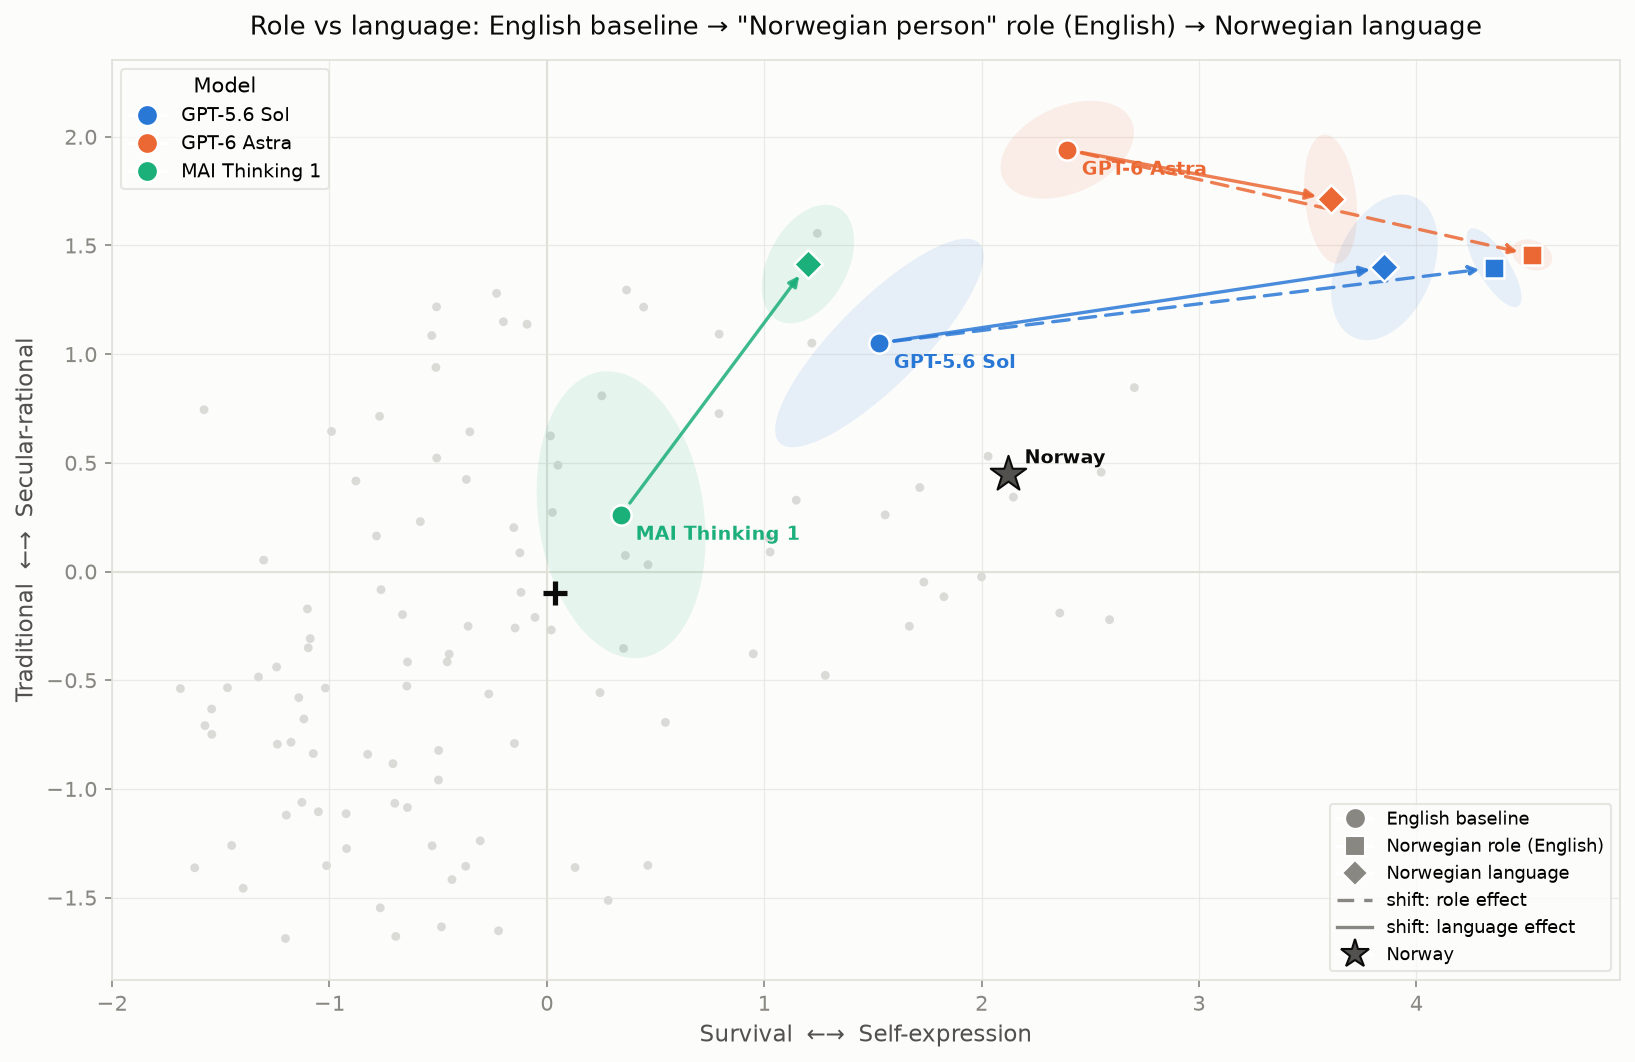
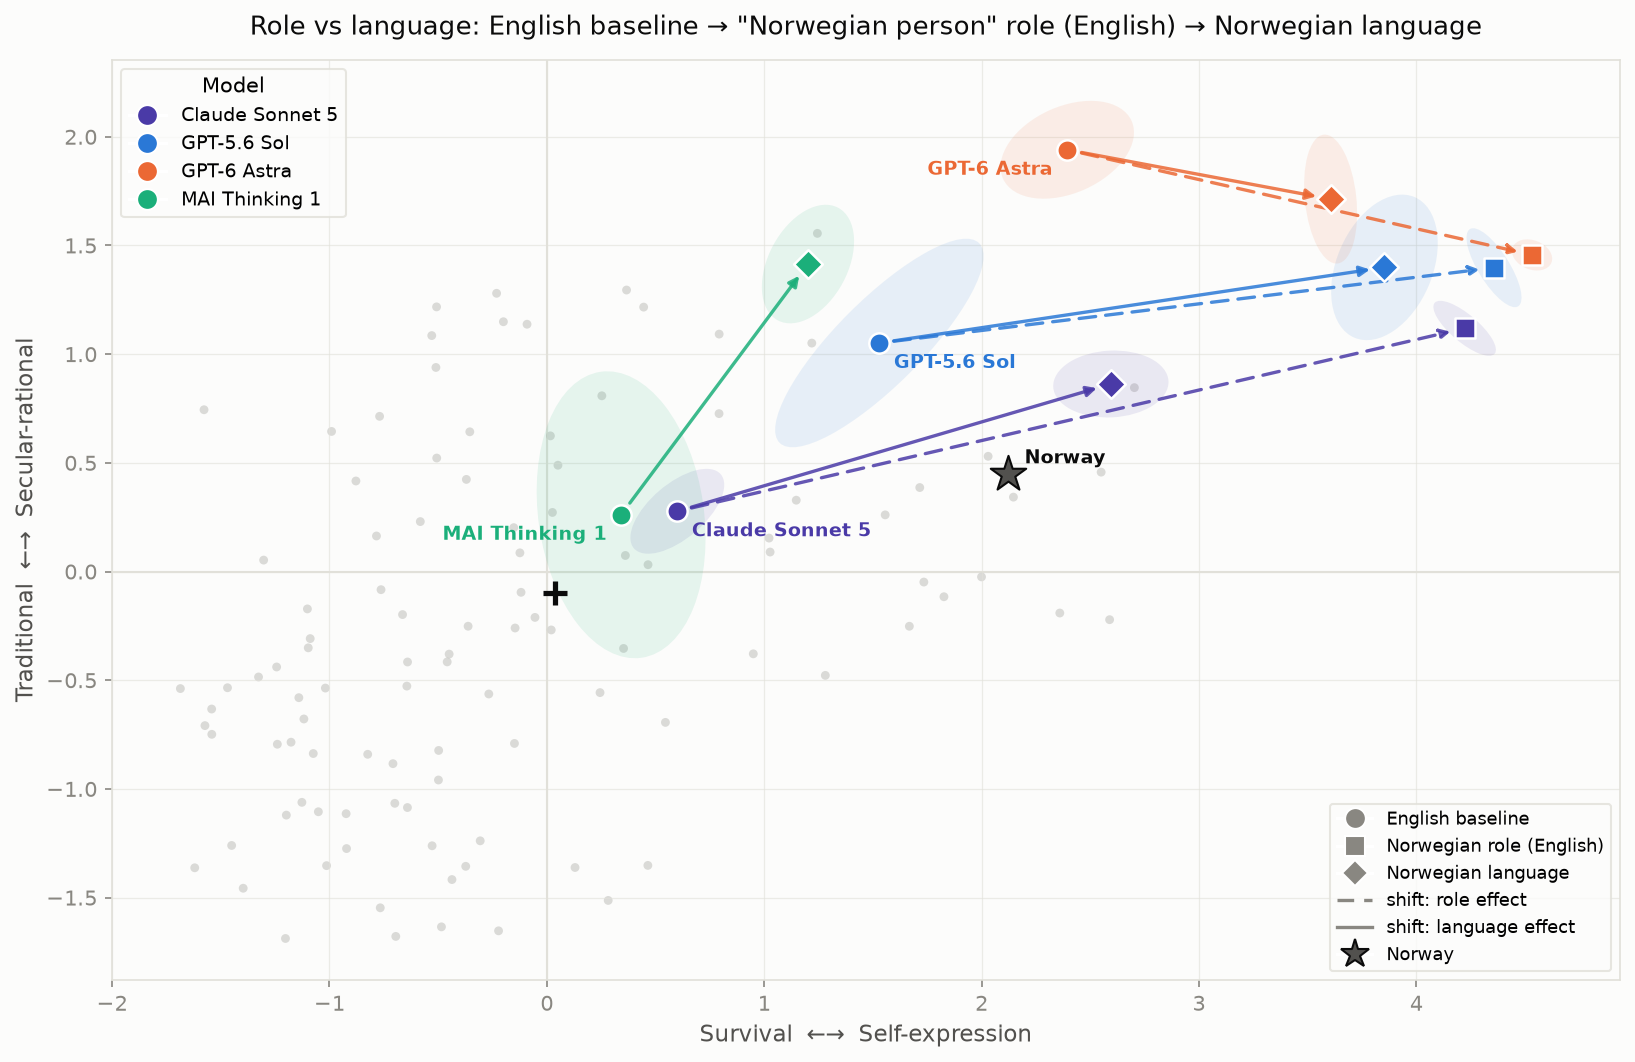
Roles and contributions

diff --git a/src/plot_map.py b/src/plot_map.py
@@ -1,0 +1,159 @@
+#!/usr/bin/env python3
+"""
+Render a PNG of the Inglehart-Welzel map: country centroids as a recessive
+backdrop, plus selected LLMs. Built for the EN-vs-NO comparison — OpenAI and
+Anthropic 2026 models in English, with the Norwegian-language runs drawn as
+diamonds and joined to their English twins by a connector.
+
+Generate the inputs first:
+  uv run python src/compare.py            --llm-only --out out/coords_en.js
+  uv run python src/compare.py --language NO --llm-only --out out/coords_no.js
+then:
+  uv run python src/plot_map.py --out out/map_no.png
+"""
+import argparse
+import json
+import re
+from pathlib import Path
+
+import numpy as np
+import matplotlib
+matplotlib.use('Agg')
+import matplotlib.pyplot as plt
+import pandas as pd
+from matplotlib.lines import Line2D
+from matplotlib.patches import Ellipse
+
+ROOT = Path(__file__).parent.parent
+CENTROIDS_FILE = ROOT / 'out' / 'country_centroids.csv'
+
+# Palette (validated data-viz reference instance): vendor = hue, language = shape.
+VENDOR_COLOR = {'OpenAI': '#2a78d6', 'Anthropic': '#eb6834'}
+SURFACE   = '#fcfcfb'
+INK       = '#0b0b0b'
+SECONDARY = '#52514e'
+MUTED     = '#898781'
+GRID      = '#e1e0d9'
+COUNTRY   = '#c3c2b7'
+
+# A few well-known countries labelled to orient the reader; Norway is highlighted
+# separately since it is the reason for the Norwegian-language runs.
+ANCHORS = ['Sweden', 'United States', 'Japan', 'Russia', 'Germany', 'Great Britain']
+HIGHLIGHT = 'Norway'
+
+
+def load_coords(path: Path) -> list[dict]:
+    txt = path.read_text().strip()
+    return json.loads(re.sub(r'^window\.COORDS = |;\s*$', '', txt))
+
+
+def main() -> None:
+    p = argparse.ArgumentParser(description=__doc__, formatter_class=argparse.RawDescriptionHelpFormatter)
+    p.add_argument('--en', default=str(ROOT / 'out' / 'coords_en.js'), help='EN llm-only coords JS')
+    p.add_argument('--no', default=str(ROOT / 'out' / 'coords_no.js'), help='NO llm-only coords JS')
+    p.add_argument('--out', default=str(ROOT / 'out' / 'map_no.png'))
+    p.add_argument('--year', default='2026', help='Only EN models released in this year')
+    args = p.parse_args()
+
+    countries = pd.read_csv(CENTROIDS_FILE).rename(columns={'surv-self': 'x', 'trad-sec': 'y'})
+    en = [r for r in load_coords(Path(args.en))
+          if r['region'] in VENDOR_COLOR and str(r.get('release', '')).startswith(args.year)]
+    no = [r for r in load_coords(Path(args.no)) if r['region'] in VENDOR_COLOR]
+    en_by_label = {r['country']: r for r in en}
+    twin_labels = {r['country'].replace(' (NO)', '') for r in no}  # the 4 EN models with NO runs
+
+    fig, ax = plt.subplots(figsize=(13, 10), dpi=150)
+    fig.patch.set_facecolor(SURFACE)
+    ax.set_facecolor(SURFACE)
+
+    # Quadrant reference lines + hairline grid, kept recessive.
+    ax.axhline(0, color=GRID, lw=1, zorder=0)
+    ax.axvline(0, color=GRID, lw=1, zorder=0)
+    ax.grid(True, color=GRID, lw=0.6, alpha=0.6, zorder=0)
+
+    # Country backdrop.
+    ax.scatter(countries['x'], countries['y'], s=20, c=COUNTRY, alpha=0.7,
+               edgecolors='none', zorder=1)
+    for _, row in countries.iterrows():
+        if row['country'] in ANCHORS:
+            ax.annotate(row['country'], (row['x'], row['y']), fontsize=7.5, color=MUTED,
+                        xytext=(4, 3), textcoords='offset points', zorder=2)
+
+    # Norway highlighted.
+    nor = countries[countries['country'] == HIGHLIGHT]
+    if not nor.empty:
+        nx, ny = float(nor['x'].iloc[0]), float(nor['y'].iloc[0])
+        ax.scatter([nx], [ny], marker='*', s=340, c=SECONDARY, edgecolors=INK,
+                   linewidths=1.0, zorder=6)
+        ax.annotate(HIGHLIGHT, (nx, ny), fontsize=10, fontweight='bold', color=INK,
+                    xytext=(8, 6), textcoords='offset points', zorder=7)
+
+    # Attenuated confidence ellipses (of the mean) for just the 4 models that have
+    # both an EN and a NO run — EN twins and their NO counterparts.
+    def draw_ellipse(rec):
+        if rec.get('ea') is None:
+            return
+        ax.add_patch(Ellipse((rec['x'], rec['y']), width=2 * rec['ea'], height=2 * rec['eb'],
+                             angle=np.degrees(rec['etheta']), facecolor=VENDOR_COLOR[rec['region']],
+                             edgecolor='none', alpha=0.1, zorder=2))
+    for lab in twin_labels:
+        if lab in en_by_label:
+            draw_ellipse(en_by_label[lab])
+    for r in no:
+        draw_ellipse(r)
+
+    # Connectors EN -> NO (drawn under the markers).
+    for r in no:
+        twin = en_by_label.get(r['country'].replace(' (NO)', ''))
+        if twin:
+            ax.annotate('', xy=(r['x'], r['y']), xytext=(twin['x'], twin['y']),
+                        arrowprops=dict(arrowstyle='-|>', color=MUTED, lw=1.2,
+                                        alpha=0.8, shrinkA=6, shrinkB=6), zorder=3)
+
+    # EN models: circles.
+    for r in en:
+        ax.scatter([r['x']], [r['y']], marker='o', s=70, c=VENDOR_COLOR[r['region']],
+                   edgecolors='white', linewidths=1.0, zorder=5)
+        ax.annotate(r['country'], (r['x'], r['y']), fontsize=7, color=SECONDARY,
+                    xytext=(5, 3), textcoords='offset points', zorder=8)
+
+    # NO models: diamonds.
+    for r in no:
+        ax.scatter([r['x']], [r['y']], marker='D', s=85, c=VENDOR_COLOR[r['region']],
+                   edgecolors='white', linewidths=1.0, zorder=6)
+        ax.annotate(r['country'].replace(' (NO)', ' (NO)'), (r['x'], r['y']), fontsize=7.5,
+                    fontweight='bold', color=INK, xytext=(6, -10),
+                    textcoords='offset points', zorder=9)
+
+    ax.set_xlabel('Survival  ←→  Self-expression', fontsize=11, color=SECONDARY)
+    ax.set_ylabel('Traditional  ←→  Secular-rational', fontsize=11, color=SECONDARY)
+    ax.set_title('LLM values on the Inglehart–Welzel map: OpenAI & Anthropic 2026, '
+                 'English vs Norwegian prompts', fontsize=13, color=INK, pad=14)
+    ax.tick_params(colors=MUTED)
+    for spine in ax.spines.values():
+        spine.set_color(GRID)
+
+    legend_handles = [
+        Line2D([0], [0], marker='o', color='w', markerfacecolor=VENDOR_COLOR['OpenAI'],
+               markeredgecolor='white', markersize=10, label='OpenAI'),
+        Line2D([0], [0], marker='o', color='w', markerfacecolor=VENDOR_COLOR['Anthropic'],
+               markeredgecolor='white', markersize=10, label='Anthropic'),
+        Line2D([0], [0], marker='o', color='w', markerfacecolor=MUTED, markersize=10,
+               label='English prompt'),
+        Line2D([0], [0], marker='D', color='w', markerfacecolor=MUTED, markersize=9,
+               label='Norwegian prompt'),
+        Line2D([0], [0], marker='*', color='w', markerfacecolor=SECONDARY,
+               markeredgecolor=INK, markersize=15, label='Norway'),
+        Line2D([0], [0], marker='o', color='w', markerfacecolor=COUNTRY, markersize=8,
+               label='Country (WVS/EVS)'),
+    ]
+    ax.legend(handles=legend_handles, loc='lower right', fontsize=9, frameon=True,
+              facecolor=SURFACE, edgecolor=GRID, labelcolor=SECONDARY)
+
+    fig.tight_layout()
+    fig.savefig(args.out, dpi=150, facecolor=SURFACE, bbox_inches='tight')
+    print(f'Wrote {args.out}  ({len(en)} EN + {len(no)} NO models, {len(countries)} countries)')
+
+
+if __name__ == '__main__':
+    main()

diff --git a/src/plot_contrib_compare.py b/src/plot_contrib_compare.py
@@ -1,0 +1,101 @@
+#!/usr/bin/env python3
+"""
+Per-question contribution to the map shift, LANGUAGE effect vs ROLE effect, on the models
+that have both an EN generic run, a NO generic run, and an EN Norwegian-role run.
+
+For each model and question i, relative to the EN generic baseline:
+  language effect: z from NO generic;  role effect: z from EN "Norwegian person" role.
+Contribution to Δx = 1.81·w[i,0]·Δz, to Δy = 1.61·w[i,1]·Δz (sum to the model's Δx/Δy).
+Bars = mean across models; dots = each model. Writes out/no_contrib_compare.png.
+
+Usage: uv run --with matplotlib python src/plot_contrib_compare.py
+"""
+import json
+import sys
+from pathlib import Path
+
+import numpy as np
+import pandas as pd
+import matplotlib
+matplotlib.use('Agg')
+import matplotlib.pyplot as plt
+from matplotlib.lines import Line2D
+
+sys.path.insert(0, str(Path(__file__).parent))
+import compare as C  # noqa: E402
+
+SHORT = {'F063': 'God important', 'Y003': 'Child autonomy', 'F120': 'Abortion OK',
+         'G006': 'National pride', 'E018': 'Respect authority', 'Y002': 'Country aims',
+         'A008': 'Happiness', 'F118': 'Homosexuality OK', 'E025': 'Signed petition',
+         'A165': 'Trust people'}
+LANG_COL, ROLE_COL = '#2a78d6', '#eb6834'   # language = blue, role = orange
+INK, MUTED, GRID, SURFACE = '#0b0b0b', '#898781', '#e1e0d9', '#fcfcfb'
+
+
+def main():
+    V = C.VARIABLES
+    exp = json.load(open(C.EXPERIMENTS_FILE))
+    w = np.loadtxt(C.WEIGHTS_FILE); s = np.loadtxt(C.SDS_FILE)
+    df = C.load_responses(latest_only=True)
+    ids = df['experiment_id'].astype(str)
+    lang = ids.map({k: v.get('language', 'EN') for k, v in exp.items()}).fillna('EN')
+    pers = ids.map({k: v.get('persona', v.get('language', 'EN').lower()) for k, v in exp.items()}).fillna('en')
+    label = ids.map({k: v.get('label', '') for k, v in exp.items()})
+
+    def means_by_base(mask, strip):
+        d = df[mask].copy(); d['base'] = label[mask].str.replace(strip, '', regex=False)
+        return d.groupby('base')[V].mean()
+
+    en = means_by_base((lang == 'EN') & (pers == 'en'), '')
+    no = means_by_base((lang == 'NO') & (pers == 'no'), ' (NO)')
+    role = means_by_base((lang == 'EN') & (pers == 'en_no_role'), ' (NO role)')
+    bases = [b for b in en.index if b in no.index and b in role.index]
+
+    def contrib(tgt):   # {axis: DataFrame [model x question]}
+        cx, cy = {}, {}
+        for b in bases:
+            dz = (tgt.loc[b].values - en.loc[b].values) / s
+            cx[b] = 1.81 * w[:, 0] * dz
+            cy[b] = 1.61 * w[:, 1] * dz
+        return pd.DataFrame(cx, index=V).T, pd.DataFrame(cy, index=V).T
+    Lx, Ly = contrib(no)
+    Rx, Ry = contrib(role)
+
+    order = Lx.mean().sort_values().index.tolist()
+    y = np.arange(len(order)); off = 0.2
+
+    fig, axes = plt.subplots(1, 2, figsize=(13.5, 7), dpi=150, sharey=True)
+    fig.patch.set_facecolor(SURFACE)
+    rng = np.random.default_rng(0)
+    for ax, (L, R, name) in zip(axes, [(Lx, Rx, 'Survival → Self-expression  (Δx)'),
+                                       (Ly, Ry, 'Traditional → Secular  (Δy)')]):
+        ax.set_facecolor(SURFACE)
+        ax.axvline(0, color=MUTED, lw=1, zorder=1)
+        ax.barh(y + off, [L[q].mean() for q in order], color=LANG_COL, height=0.36, alpha=0.35, zorder=2)
+        ax.barh(y - off, [R[q].mean() for q in order], color=ROLE_COL, height=0.36, alpha=0.35, zorder=2)
+        for b in bases:
+            ax.scatter([L.loc[b, q] for q in order], y + off + (rng.random(len(order)) - .5) * .22,
+                       s=24, c=LANG_COL, edgecolors='white', linewidths=.5, zorder=4)
+            ax.scatter([R.loc[b, q] for q in order], y - off + (rng.random(len(order)) - .5) * .22,
+                       s=24, c=ROLE_COL, edgecolors='white', linewidths=.5, zorder=4)
+        ax.set_title(name, fontsize=11.5, color=INK)
+        ax.grid(axis='x', color=GRID, lw=0.6, alpha=0.6, zorder=0)
+        ax.tick_params(colors=MUTED)
+        for sp in ax.spines.values():
+            sp.set_color(GRID)
+        ax.set_xlabel('contribution to shift (map units)', fontsize=10, color='#52514e')
+    axes[0].set_yticks(y); axes[0].set_yticklabels([SHORT[q] for q in order], fontsize=10, color=INK)
+
+    handles = [Line2D([0], [0], marker='s', color='w', markerfacecolor=LANG_COL, markersize=11, label='language effect (EN→NO)'),
+               Line2D([0], [0], marker='s', color='w', markerfacecolor=ROLE_COL, markersize=11, label='role effect (EN→NO role)')]
+    axes[1].legend(handles=handles, loc='lower right', fontsize=9, frameon=True, facecolor=SURFACE, edgecolor=GRID)
+    fig.suptitle(f'Per-question contribution: language vs role effect  (mean of {len(bases)} models: {", ".join(bases)})',
+                 fontsize=12.5, color=INK, y=0.98)
+    fig.tight_layout(rect=(0, 0, 1, 0.96))
+    out = C.ROOT / 'out' / 'no_contrib_compare.png'
+    fig.savefig(out, dpi=150, facecolor=SURFACE, bbox_inches='tight')
+    print(f'Wrote {out}  ({len(bases)} models: {bases})')
+
+
+if __name__ == '__main__':
+    main()

diff --git a/src/plot_contrib.py b/src/plot_contrib.py
@@ -1,0 +1,106 @@
+#!/usr/bin/env python3
+"""
+Which questions drive the English→Norwegian shift? For every model with both an EN
+(generic) and a NO (generic) run, decompose its map shift into per-question
+contributions: for question i, contribution to Δx = 1.81·w[i,0]·(z_i^NO − z_i^EN) and to
+Δy = 1.61·w[i,1]·(z_i^NO − z_i^EN), where z = (mean score − population mean)/sd. These
+sum exactly to the model's Δx / Δy. Bars = mean across models; dots = each model (by
+vendor), so you see both the driver and how consistent it is. Writes out/no_contrib.png.
+
+Usage: uv run --with matplotlib python src/plot_contrib.py
+"""
+import json
+import sys
+from pathlib import Path
+
+import numpy as np
+import pandas as pd
+import matplotlib
+matplotlib.use('Agg')
+import matplotlib.pyplot as plt
+from matplotlib.lines import Line2D
+
+sys.path.insert(0, str(Path(__file__).parent))
+import compare as C  # noqa: E402
+
+SHORT = {  # variable -> short label for the y-axis
+    'F063': 'God important', 'Y003': 'Child autonomy', 'F120': 'Abortion OK',
+    'G006': 'National pride', 'E018': 'Respect authority', 'Y002': 'Country aims',
+    'A008': 'Happiness', 'F118': 'Homosexuality OK', 'E025': 'Signed petition',
+    'A165': 'Trust people',
+}
+VENDOR_COLOR = {'OpenAI': '#fb923c', 'Anthropic': '#c2410c', 'Microsoft': '#2563eb'}
+INK, MUTED, GRID, SURFACE, BAR = '#0b0b0b', '#898781', '#e1e0d9', '#fcfcfb', '#c9c8c2'
+
+
+def main():
+    V = C.VARIABLES
+    exp = json.load(open(C.EXPERIMENTS_FILE))
+    w = np.loadtxt(C.WEIGHTS_FILE); s = np.loadtxt(C.SDS_FILE)
+    df = C.load_responses(latest_only=True)
+    ids = df['experiment_id'].astype(str)
+    lang = ids.map({k: v.get('language', 'EN') for k, v in exp.items()}).fillna('EN')
+    pers = ids.map({k: v.get('persona', v.get('language', 'EN').lower()) for k, v in exp.items()}).fillna('en')
+    label = ids.map({k: v.get('label', '') for k, v in exp.items()})
+    vendor_of = {v.get('label', ''): v.get('vendor', 'Other') for v in exp.values()}
+
+    def means_by_base(mask, strip):
+        d = df[mask].copy(); d['base'] = label[mask].str.replace(strip, '', regex=False)
+        return d.groupby('base')[V].mean()
+
+    en = means_by_base((lang == 'EN') & (pers == 'en'), '')
+    no = means_by_base((lang == 'NO') & (pers == 'no'), ' (NO)')
+    bases = [b for b in no.index if b in en.index]
+
+    # contributions: {axis: DataFrame [base x question]}
+    cx, cy = {}, {}
+    for b in bases:
+        dz = (no.loc[b].values - en.loc[b].values) / s
+        cx[b] = 1.81 * w[:, 0] * dz
+        cy[b] = 1.61 * w[:, 1] * dz
+    CX = pd.DataFrame(cx, index=V).T   # rows=models, cols=questions
+    CY = pd.DataFrame(cy, index=V).T
+
+    order = CX.mean().sort_values().index.tolist()   # questions by mean Δx contribution
+    ypos = np.arange(len(order))
+
+    fig, axes = plt.subplots(1, 2, figsize=(13.5, 7), dpi=150, sharey=True)
+    fig.patch.set_facecolor(SURFACE)
+    rng = np.random.default_rng(0)
+    for ax, (CC, name) in zip(axes, [(CX, 'Survival → Self-expression  (Δx)'),
+                                     (CY, 'Traditional → Secular  (Δy)')]):
+        ax.set_facecolor(SURFACE)
+        ax.axvline(0, color=MUTED, lw=1, zorder=1)
+        ax.barh(ypos, [CC[q].mean() for q in order], color=BAR, height=0.66, zorder=2,
+                edgecolor='none')
+        for b in bases:
+            col = VENDOR_COLOR.get(vendor_of.get(b, 'Other'), '#6c757d')
+            jit = (rng.random(len(order)) - 0.5) * 0.34
+            ax.scatter([CC.loc[b, q] for q in order], ypos + jit, s=26, c=col,
+                       edgecolors='white', linewidths=0.5, alpha=0.9, zorder=4)
+        ax.set_title(name, fontsize=11.5, color=INK)
+        ax.grid(axis='x', color=GRID, lw=0.6, alpha=0.6, zorder=0)
+        ax.tick_params(colors=MUTED)
+        for sp in ax.spines.values():
+            sp.set_color(GRID)
+    axes[0].set_yticks(ypos)
+    axes[0].set_yticklabels([SHORT[q] for q in order], fontsize=10, color=INK)
+    axes[0].set_xlabel('contribution to shift (map units)', fontsize=10, color='#52514e')
+    axes[1].set_xlabel('contribution to shift (map units)', fontsize=10, color='#52514e')
+
+    handles = ([Line2D([0], [0], marker='o', color='w', markerfacecolor=c, markersize=9, label=v)
+                for v, c in VENDOR_COLOR.items()]
+               + [Line2D([0], [0], marker='s', color='w', markerfacecolor=BAR, markersize=11,
+                         label=f'mean of {len(bases)} models')])
+    axes[1].legend(handles=handles, loc='lower right', fontsize=9, frameon=True,
+                   facecolor=SURFACE, edgecolor=GRID)
+
+    fig.suptitle('What drives the English→Norwegian shift, per question', fontsize=13.5, color=INK, y=0.98)
+    fig.tight_layout(rect=(0, 0, 1, 0.96))
+    out = C.ROOT / 'out' / 'no_contrib.png'
+    fig.savefig(out, dpi=150, facecolor=SURFACE, bbox_inches='tight')
+    print(f'Wrote {out}  ({len(bases)} models)')
+
+
+if __name__ == '__main__':
+    main()

diff --git a/src/plot_role.py b/src/plot_role.py
@@ -21,8 +21,9 @@ from matplotlib.patches import Ellipse
 sys.path.insert(0, str(Path(__file__).parent))
 import compare as C  # noqa: E402
 
-BASES = ['GPT-5.6 Sol', 'GPT-6 Astra', 'MAI Thinking 1']
-MODEL_COLOR = {'GPT-5.6 Sol': '#2a78d6', 'GPT-6 Astra': '#eb6834', 'MAI Thinking 1': '#1baf7a'}
+BASES = ['Claude Sonnet 5', 'GPT-5.6 Sol', 'GPT-6 Astra', 'MAI Thinking 1']
+MODEL_COLOR = {'Claude Sonnet 5': '#4a3aa7', 'GPT-5.6 Sol': '#2a78d6',
+               'GPT-6 Astra': '#eb6834', 'MAI Thinking 1': '#1baf7a'}
 # condition key -> (question language, persona set, label suffix, marker)
 COND = {
     'EN':      ('EN', 'en',          '',           'o'),
@@ -97,8 +98,12 @@ def main():
             if r is None:
                 continue
             ax.scatter([r.x], [r.y], marker=marker, s=95, c=color, edgecolors='white', lw=1.2, zorder=5)
+        # Label these to the LEFT: MAI (its baseline overlaps Sonnet's) and Astra
+        # (its right-side label clashes with the role arrow).
+        left = b in ('MAI Thinking 1', 'GPT-6 Astra')
         ax.annotate(b, (en.x, en.y), fontsize=9, fontweight='bold', color=color,
-                    xytext=(7, -12), textcoords='offset points', zorder=8)
+                    xytext=(-7 if left else 7, -12), textcoords='offset points',
+                    ha='right' if left else 'left', zorder=8)
 
     ax.set_xlabel('Survival  ←→  Self-expression', fontsize=11, color='#52514e')
     ax.set_ylabel('Traditional  ←→  Secular-rational', fontsize=11, color='#52514e')
